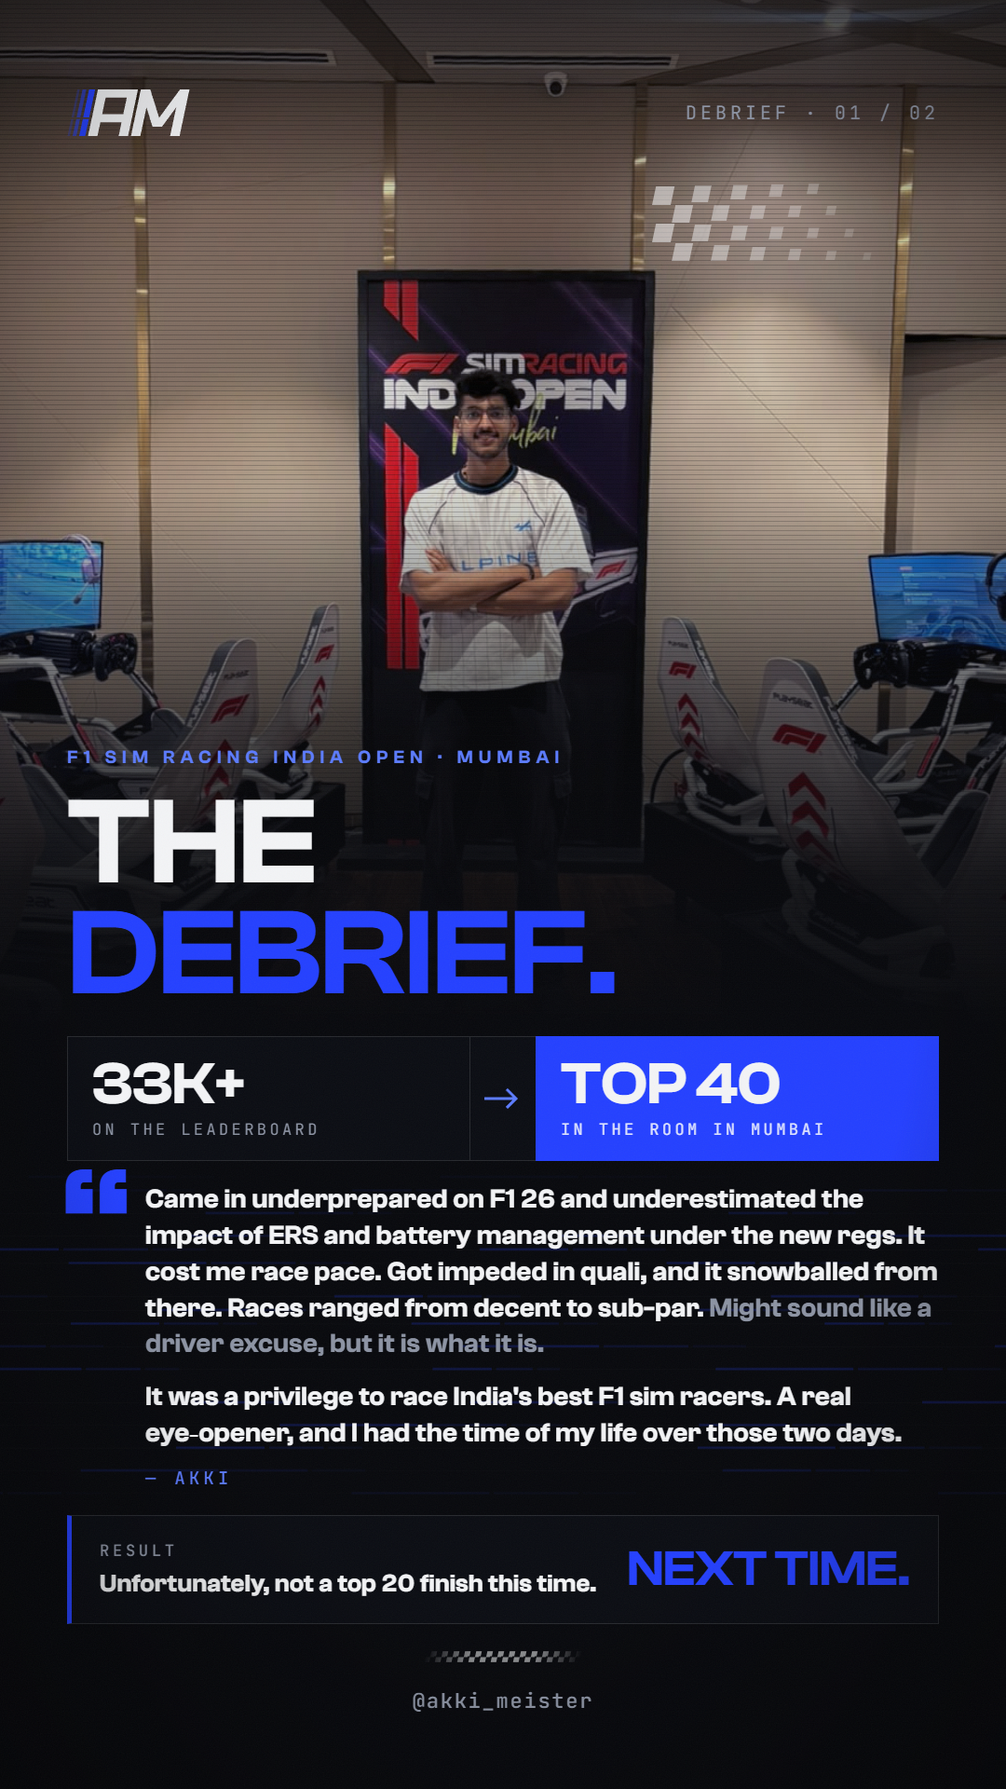
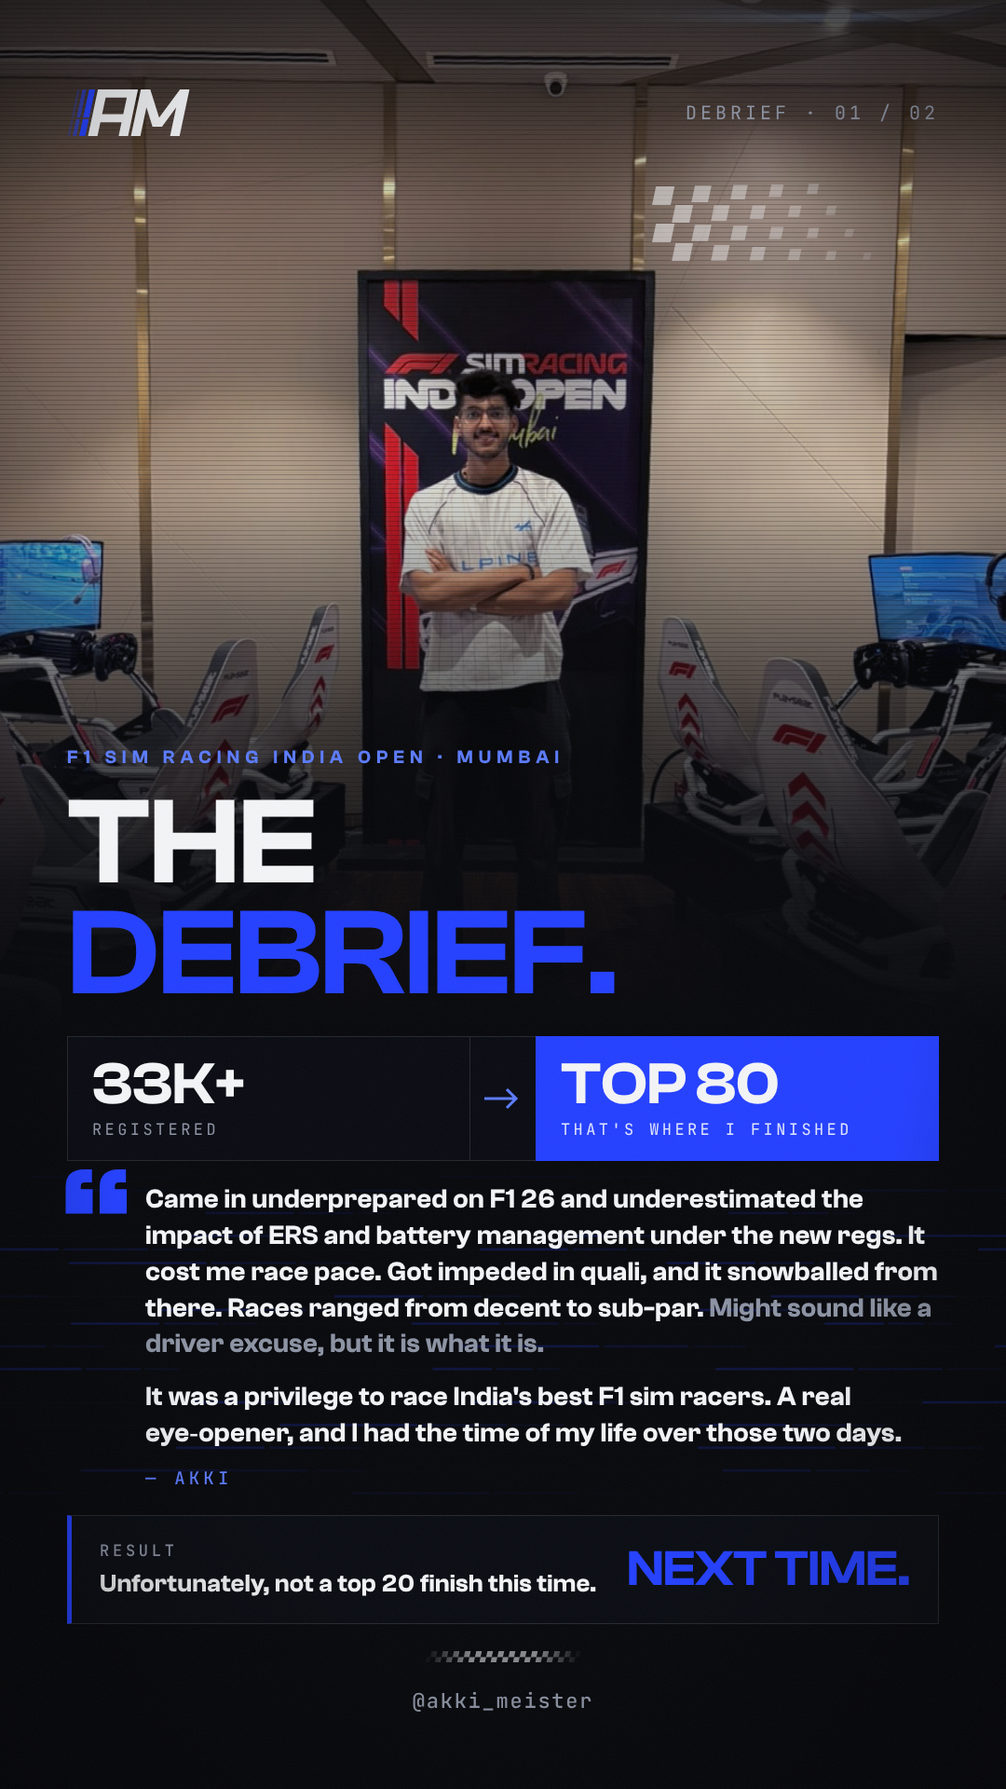
Correct India Open result to top 80 of 33,000+ registered
Akki confirmed the figure: top 80 out of 33,000+ registered
participants. Replace the old "top 40" everywhere (CLAUDE.md, playbook,
research, strategy, roadmap, calendar), drop the 40-vs-80 warnings, and
fix the debrief story stat chips (33K+ REGISTERED -> TOP 80) with a
re-rendered story-01-debrief.png.

Claude-Session: https://claude.ai/code/session_01LczXHi9SgZpyvd83KxSfUF

diff --git a/stories-india-open/stories.html b/stories-india-open/stories.html
@@ -56,10 +56,10 @@ body{background:#222;display:flex;gap:40px;padding:40px;width:max-content}
 
   <!-- funnel stat -->
   <div class="abs" style="left:72px;top:1112px;width:936px;display:flex;align-items:stretch;gap:0;z-index:5">
-    <div class="chip" style="flex:1"><b>33K+</b><span>ON THE LEADERBOARD</span></div>
+    <div class="chip" style="flex:1"><b>33K+</b><span>REGISTERED</span></div>
     <div style="width:70px;display:flex;align-items:center;justify-content:center;background:rgba(10,12,19,.9);border-top:1px solid rgba(243,244,246,.12);border-bottom:1px solid rgba(243,244,246,.12)">
       <svg width="40" height="24" viewBox="0 0 40 24"><path d="M0 12h34M24 2l10 10-10 10" stroke="#5B7BFF" stroke-width="3" fill="none"/></svg></div>
-    <div class="chip" style="flex:1;background:var(--blue);border-color:var(--blue)"><b>TOP 40</b><span style="color:#dfe4ff">IN THE ROOM IN MUMBAI</span></div>
+    <div class="chip" style="flex:1;background:var(--blue);border-color:var(--blue)"><b>TOP 80</b><span style="color:#dfe4ff">THAT'S WHERE I FINISHED</span></div>
   </div>
 
   <!-- the debrief, as a quote -->

diff --git a/research/india-ecosystem.md b/research/india-ecosystem.md
@@ -8,7 +8,7 @@
 
 | Event / org | What it is | Key facts (source) | Relevance to Akki |
 |---|---|---|---|
-| **F1 Sim Racing India Open 2026** (F1 × Mumbai Falcons Racing Ltd) | India's first officially sanctioned national F1 sim championship. F1 describes it as its first country-specific sim programme | Announced 28 Apr 2026; registration via the MFRL app from 30 Apr ([F1.com](https://www.formula1.com/en/latest/article/formula-1-launches-sim-racing-india-open-in-partnership-with-mumbai-falcons.7CgRKSGBmV6v9LnqdE3y9K); [Outlook Respawn](https://respawn.outlookindia.com/gaming/gaming-news/india-gets-first-official-nationwide-f1-sim-racing-championship)). Launch press says **F1 25** on PC, PS5 and Xbox ([Autocar India](https://www.autocarindia.com/auto-features/f1-sim-racing-india-open-format-explained-440832)); **Akki raced the Mumbai qualifiers on F1 26** (first-hand), so later rounds apparently moved to the newer game ⚠ no press report of the switch found. Finals training partner: **Track Titan** (UK AI telemetry-coaching platform), ~300 finalists from 21 cities, aged ~10–61 ([Evo India](https://www.evoindia.com/motorsport/motorsport-news/mumbai-falcons-racing-brings-in-track-titan-to-train-indias-fastest-sim-racers-587832); [myKhel](https://www.mykhel.com/motorsport/mumbai-falcons-racing-partner-with-track-titan-to-train-indias-top-sim-racers-457037.html)); top performers feed MFRL's "Agla Star" programme. Junior and Senior categories; 10 zones; ₹2 crore total prize pool; ₹1 crore per category champion. Finals at **NSCI Dome, Mumbai**, ~5–10 Nov 2026 ([District](https://www.district.in/events/f1-sim-racing-india-open-2026-buy-tickets)), on Playseat Formula Intelligence F1 + Fanatec ClubSport F1 hardware. Entry ₹3,499 / ₹4,999 (Autocar). Delhi time trials at Bharat Mandapam drew 3,000+ in person ([The Bridge](https://thebridge.in/motorsport/f1-sim-racing-massive-turnout-delhi-57179)); also a Kohima round at the Tech X Gaming Expo ([IV Government](https://ivgovernment.com/news/kohima-set-to-host-f1-sim-racing-india-open-bringing-national-esports-competition-to-nagaland)); school time trials in Pune ([myKhel](https://www.mykhel.com/motorsport/f1-sim-racing-time-trials-launch-in-pune-schools-by-mumbai-falcons-racing-014-444689.html)). YouTube streams via District by Zomato ([Adgully](https://www.adgully.com/post/23345/district-by-zomato-partners-with-f1-sim-racing-india-open-2026-youtube-streams-set)) | **Akki's flagship credential.** **"33,000+"** comes from the MFRL app leaderboard (Akki saw it first-hand); no public press total exists. **Screenshot the leaderboard** (total count + Akki's position) and keep it as proof before posting, because sharp-eyed followers will ask. **Game:** Akki raced the Mumbai qualifiers on **F1 26**, so `#f126` in the calendar is right for his content. When quoting the event in general, say "F1 Sim Racing India Open" without a game name, since launch press said F1 25. **The national final is happening this week**, so time content around it. |
+| **F1 Sim Racing India Open 2026** (F1 × Mumbai Falcons Racing Ltd) | India's first officially sanctioned national F1 sim championship. F1 describes it as its first country-specific sim programme | Announced 28 Apr 2026; registration via the MFRL app from 30 Apr ([F1.com](https://www.formula1.com/en/latest/article/formula-1-launches-sim-racing-india-open-in-partnership-with-mumbai-falcons.7CgRKSGBmV6v9LnqdE3y9K); [Outlook Respawn](https://respawn.outlookindia.com/gaming/gaming-news/india-gets-first-official-nationwide-f1-sim-racing-championship)). Launch press says **F1 25** on PC, PS5 and Xbox ([Autocar India](https://www.autocarindia.com/auto-features/f1-sim-racing-india-open-format-explained-440832)); **Akki raced the Mumbai qualifiers on F1 26** (first-hand), so later rounds apparently moved to the newer game ⚠ no press report of the switch found. Finals training partner: **Track Titan** (UK AI telemetry-coaching platform), ~300 finalists from 21 cities, aged ~10–61 ([Evo India](https://www.evoindia.com/motorsport/motorsport-news/mumbai-falcons-racing-brings-in-track-titan-to-train-indias-fastest-sim-racers-587832); [myKhel](https://www.mykhel.com/motorsport/mumbai-falcons-racing-partner-with-track-titan-to-train-indias-top-sim-racers-457037.html)); top performers feed MFRL's "Agla Star" programme. Junior and Senior categories; 10 zones; ₹2 crore total prize pool; ₹1 crore per category champion. Finals at **NSCI Dome, Mumbai**, ~5–10 Nov 2026 ([District](https://www.district.in/events/f1-sim-racing-india-open-2026-buy-tickets)), on Playseat Formula Intelligence F1 + Fanatec ClubSport F1 hardware. Entry ₹3,499 / ₹4,999 (Autocar). Delhi time trials at Bharat Mandapam drew 3,000+ in person ([The Bridge](https://thebridge.in/motorsport/f1-sim-racing-massive-turnout-delhi-57179)); also a Kohima round at the Tech X Gaming Expo ([IV Government](https://ivgovernment.com/news/kohima-set-to-host-f1-sim-racing-india-open-bringing-national-esports-competition-to-nagaland)); school time trials in Pune ([myKhel](https://www.mykhel.com/motorsport/f1-sim-racing-time-trials-launch-in-pune-schools-by-mumbai-falcons-racing-014-444689.html)). YouTube streams via District by Zomato ([Adgully](https://www.adgully.com/post/23345/district-by-zomato-partners-with-f1-sim-racing-india-open-2026-youtube-streams-set)) | **Akki's flagship credential.** **Top 80 out of 33,000+ registered participants** (confirmed by Akki, 4 Nov 2026; seen first-hand in the MFRL app). No public press total exists. **Screenshot the leaderboard** (total count + Akki's position) and keep it as proof before posting, because sharp-eyed followers will ask. **Game:** Akki raced the Mumbai qualifiers on **F1 26**, so `#f126` in the calendar is right for his content. When quoting the event in general, say "F1 Sim Racing India Open" without a game name, since launch press said F1 25. **The national final is happening this week**, so time content around it. |
 | **Indian Sim Racing League (ISRL)** (Mumbai Falcons / IR eSports / VW Motorsport) | Earlier national sim league | S3 won by Amith Kutti ([Evo India](https://www.evoindia.com/motorsport/chennais-amith-kutti-wins-isrl-3-title)); ⚠ 2020–21 sources, current status unknown | Shows the pathway: the ISRL champion got a real-car academy deal |
 | **Indian eRacing Championship** (IR eSports) | Multi-class league (Pro Formula, Junior Formula, Touring, Amateur incl. PS4 and women's) | Organiser claims 4,500 registered drivers ([IR eSports](https://www.iresports.in/our-events/--indian-eracing-championship--)) ⚠ self-reported | Possible collab or coverage partner |
 | **Indian Racing Community (IRC)** | Discord-centred community; F1, ACC and AC leagues | [SimGrid](https://www.thesimgrid.com/communities/indianracingcommunity); [YouTube](https://www.youtube.com/c/indianracingcommunity); ⚠ member count not found | Where the core Indian sim audience gathers |
@@ -45,8 +45,8 @@
 
 | Gap | Evidence | Akki's asset that fills it | Content move |
 |---|---|---|---|
-| **1. No premium, credible Indian sim racing educator** | No Indian sim creator found with verifiable scale; F1 and MFRL used cricketers as ambassadors | Top-40 India Open (⚠ verify wording), sim podiums, coaching | **"The Indian Driver61":** carousel explainers + short reels on technique, with a premium look (already the plan in CLAUDE.md) |
-| **2. No one explains the India Open pathway** | 3,000+ in Delhi alone, school programmes, ₹2 cr prize: lots of new entrants and little guidance | Akki went through it | "How I got top 40 out of [verified N]", "what the zonal qualifier is really like", "rig checklist before your time trial". **Post during finals week (now).** |
+| **1. No premium, credible Indian sim racing educator** | No Indian sim creator found with verifiable scale; F1 and MFRL used cricketers as ambassadors | Top 80 of 33,000+ at the India Open, sim podiums, coaching | **"The Indian Driver61":** carousel explainers + short reels on technique, with a premium look (already the plan in CLAUDE.md) |
+| **2. No one explains the India Open pathway** | 3,000+ in Delhi alone, school programmes, ₹2 cr prize: lots of new entrants and little guidance | Akki went through it | "How I finished top 80 out of 33,000+", "what the zonal qualifier is really like", "rig checklist before your time trial". **Post during finals week (now).** |
 | **3. No India-context hardware guidance** | Prices and availability differ in India (G29 vs G920, Fanatec just arrived, confusion over who the official Moza dealer is) | Rig knowledge, VRH relationship | "Best rig at ₹40k / ₹1L / ₹3L in India", sourced only from Indian retailers. Disclose any affiliations |
 | **4. Telemetry and data in plain English, for Indian sim racers** | Global creators do this (Coach Dave Delta, Driver61); no Indian equivalent found. **MFRL had to bring in a UK platform (Track Titan) to coach India Open finalists on telemetry** | Telemetry skills, FS engineering | "Read your own telemetry" series; before/after traces from Akki's laps |
 | **5. Sim → real pathway in India** | Only one documented case (Amith Kutti → NK Racing Academy, 2020–21); Akki has done karting + FS | Karting, Formula Student | Documentary-style series: sim → kart → FS car. That's the Broadbent/Super GT arc, Indian edition |
@@ -62,7 +62,7 @@ Why it works for the goals: **expos** want credible hosts; **F1 / teams** (MFRL,
 
 ### Answered by Akki (4 Nov 2026)
 
-1. **33,000+**: from the MFRL app leaderboard. Action: keep a screenshot as proof.
+1. **Top 80 out of 33,000+ registered participants** (MFRL app). Action: keep a screenshot as proof.
 2. **Game**: F1 26 in the Mumbai qualifiers.
 3. **Adi Plays**: [@adiplays_](https://www.instagram.com/adiplays_/) (Aditya Dube). Profiled in `creator-landscape.md`.
 4. **VRH**: the Noida venue where Akki raced. Profiled above (⚠ check whether it's the Greater Noida partner arena or VRH's own site).

diff --git a/strategy/STRATEGY.md b/strategy/STRATEGY.md
@@ -3,9 +3,8 @@
 *Written 4 Nov 2026. Built on `research/creator-landscape.md` and `research/india-ecosystem.md`. Pair it with `strategy/ROADMAP.md` (the checklist) and `CONTENT-CALENDAR.md` (the next 4 weeks).*
 
 > **⚠ Settle these before anything goes public**
-> 1. **Top 40 or top 80?** In this session you said "top 80 of 33k+". `CLAUDE.md`, the research and the old calendar all say "top 40". This strategy uses **top 80** because it's your latest statement. Screenshot the MFRL app leaderboard (your position and the total entries), then fix whichever files are wrong. Your whole positioning rests on credibility, and the audience *will* check.
-> 2. **Kids in coaching photos.** `library/sim-coaching/` includes minors. Get written parental consent before any child's face appears in a post. Otherwise use shots where they aren't identifiable, or blur them.
-> 3. **"33,000+"** comes from the leaderboard, not a press figure. Keep the screenshot (see the research).
+> 1. **Kids in coaching photos.** `library/sim-coaching/` includes minors. Get written parental consent before any child's face appears in a post. Otherwise use shots where they aren't identifiable, or blur them.
+> 2. **The India Open figure is top 80 out of 33,000+ registered participants** (confirmed by Akki, 4 Nov 2026). It comes from the MFRL app, not a press release, so keep a screenshot of the leaderboard as proof. Your whole positioning rests on credibility, and the audience *will* check.
 
 ---
 
@@ -145,7 +144,7 @@ There's a **minimum viable week** for exam weeks (see below), and missing a week
 | **Twitch / live** | Later: Hotlap Challenge finals, charity or endurance stream | Optional from month 9+. One "event" stream per quarter, not a schedule. | 9+ months |
 
 ### First long-form YouTube video: candidate titles
-1. "How I finished top 80 of 33,000 at the F1 Sim Racing India Open (and what I'd change)" ⚠ confirm the number first.
+1. "How I finished top 80 of 33,000+ at the F1 Sim Racing India Open (and what I'd change)"
 2. "I reviewed 5 of your laps. Here's the mistake all of you make" (a Debrief compilation).
 3. "Sim racing in India: the complete beginner's guide (₹30k to ₹3 lakh)" 🔎 prices at the time of posting.
 
@@ -276,7 +275,7 @@ Track these in a simple sheet. Month 1 sets the **baseline**, and "working" mean
    - Every 🔎 gets checked with sources.
    - Personal values are labelled "my setup".
    - Corrections go in a pinned comment or story, not deleted.
-2. **Overstating results.** Settle top 40 vs top 80 now. Never round up. Keep screenshots of every result.
+2. **Overstating results.** Always say exactly "top 80 of 33,000+ registered". Never round up. Keep screenshots of every result.
 3. **Burnout and inconsistency.** The research pattern is that creators who last 6+ months win. Use the minimum viable week, batch production (Session 5), and templates. Don't add platforms ahead of the plan.
 4. **Copying.** Learn the *mechanics*, not the look:
    - Broadbent: the annual event.
@@ -304,7 +303,7 @@ Track these in a simple sheet. Month 1 sets the **baseline**, and "working" mean
 
 | # | Idea (hook) | Format | Pillar | Series | Media to use / what to film |
 |---|---|---|---|---|---|
-| 1 | **"33,000+ on the leaderboard. Here's what top 80 actually took."** | Reel 30–45 s | P4 | — | Render `email-motion/email-zoom.html` → mp4 first; `stories-india-open/assets/venue.jpg`, `room.jpg`, `cockpit.jpg`; talking-head hook from `sim-rig/sim-intro.mp4` (check frames). ⚠ top 40/80 |
+| 1 | **"33,000+ registered. Here's what top 80 actually took."** | Reel 30–45 s | P4 | — | Render `email-motion/email-zoom.html` → mp4 first; `stories-india-open/assets/venue.jpg`, `room.jpg`, `cockpit.jpg`; talking-head hook from `sim-rig/sim-intro.mp4` (check frames) |
 | 2 | **"The ERS mistake that killed my race pace in F1 26"** | Carousel 7 | P2 | APX | Hero `telemetry/img-9320.jpg`; battery deploy/harvest diagram from the kit. 🔎 2026 regs + F1 26 ERS modes |
 | 3 | **Debrief Ep 0: "I debriefed my own lap. 0.Xs in two corners."** | Reel 75 s | P2 | DEB | 📊 Akki's lap + reference export; b-roll `sim-rig/img-8214.mp4` (wheel close-up), `telemetry/img-4366.jpg` |
 | 4 | **"You're braking in a straight line. That's why you're slow."** (trail braking) | Carousel 7 | P1 | APX | Hero `sim-coaching/dsc00978.jpg` (strong); brake-pressure graph. 🔎 |

diff --git a/CONTENT-CALENDAR.md b/CONTENT-CALENDAR.md
@@ -4,7 +4,9 @@
 
 **Positioning:** *India's own sim racing coach. Real laps, real data, real racecraft. Every post makes you faster.*
 
-> ⚠ **Before week 1:** settle **top 40 vs top 80** with the leaderboard screenshot (see `strategy/ROADMAP.md`). The posts below say top 80, per Akki's latest statement. Get parental consent before any coached child's face is used.
+> **India Open figure:** top 80 out of 33,000+ registered participants. Use exactly that wording, and keep the leaderboard screenshot as proof.
+>
+> ⚠ **Before week 1:** get parental consent before any coached child's face is used.
 
 ## The weekly rhythm
 
@@ -68,7 +70,7 @@ India Open finals week (NSCI Dome, Mumbai), so the scene is paying attention.
   > The India Open taught me the hard way: in F1 26, battery management *is* race pace. 🔋 Here's what went wrong and what I'm changing. Save this before your next race.
 - **Tags:** Core + Racecraft + Data
 
-### Fri 13 · REEL · "33,000+ on the leaderboard. Here's what top 80 took." ⚠ 🎥 · *P4*
+### Fri 13 · REEL · "33,000+ registered. Here's what top 80 took." 🎥 · *P4*
 - **Structure:**
   1. The email-zoom clip: "Congratulations on qualifying…".
   2. Venue photos.
@@ -79,8 +81,8 @@ India Open finals week (NSCI Dome, Mumbai), so the scene is paying attention.
   - `stories-india-open/assets/venue.jpg`, `room.jpg`, `cockpit.jpg`.
   - Any clips Akki has from Mumbai.
 - **Caption:**
-  > 33,000+ on the leaderboard. Top 80. Not where I wanted to finish, but I learned more in those days than in a year of hotlapping. Coming back stronger. 🏁 @akki_meister
-- ⚠ Confirm the number. Add a congratulations line for the 2026 champions once the finals results are out.
+  > 33,000+ registered. I finished top 80. Not where I wanted to finish, but I learned more in those days than in a year of hotlapping. Coming back stronger. 🏁 @akki_meister
+- Add a congratulations line for the 2026 champions once the finals results are out.
 - **Tags:** Core + India and lifestyle
 
 ### Sat 14 · REEL · THE DEBRIEF, Ep 0: "I debriefed my own lap" 📊 🎥 · *P2 · the show begins*
@@ -262,7 +264,7 @@ The full list of 30 ideas is in `strategy/STRATEGY.md` §8.
 
 | For | What |
 |---|---|
-| Before week 1 | ⚠ Leaderboard screenshot (top 40 vs 80); consent list for coached kids; any Mumbai clips or photos |
+| Before week 1 | Leaderboard screenshot (top 80 of 33,000+, as proof); consent list for coached kids; any Mumbai clips or photos |
 | Week 1 | 📊 Your lap + a faster reference lap export (Debrief Ep 0); 📸 wheel and pedal close-ups |
 | Week 2 | 🎥 Onboard hotlap with input overlay (+ pedal-cam if possible); 📊 a coached driver's lap (with permission) |
 | Week 3 | 🎥 Kart footage with timing if you have it; 📊 the Ep 1 driver's re-run lap |

diff --git a/research/creator-landscape.md b/research/creator-landscape.md
@@ -84,7 +84,7 @@ Web search barely indexes Instagram follower counts or Reels. Before finalising 
 
 ## 3. Takeaways for AKKI MEISTER
 
-- **The global winners' formula** is a clear lane + a recurring format + real credibility (they can actually drive) + a sim → real storyline. Akki already has three of the four: **credibility** (top 40 at the India Open per Akki ⚠ self-reported, sim podiums), the **sim → real storyline** (karting, Formula Student), and the **education lane** (coaching, telemetry). The missing piece is the **recurring franchise format**.
+- **The global winners' formula** is a clear lane + a recurring format + real credibility (they can actually drive) + a sim → real storyline. Akki already has three of the four: **credibility** (top 80 of 33,000+ registered at the India Open, confirmed by Akki; keep the leaderboard screenshot as proof; sim podiums), the **sim → real storyline** (karting, Formula Student), and the **education lane** (coaching, telemetry). The missing piece is the **recurring franchise format**.
 - **The closest global analogue to Akki is Driver61 + Jardier**: teaching-first, fast enough to be credible, with a community league. Not Super GT (game variety) and not Boosted Media (hardware reviews; that's capital-intensive).
 - **Proof that India's F1 teams want local creators:** Adi Plays (~63K, F1 fan and lifestyle) got Alpine F1 guest access in Singapore because of his reach into India. Paddock invites go to Indian creators with an engaged audience, even at mid-size. Adi covers **fandom**; nobody covers **driving and data** at that level. A collab ("F1 fan vs sim racer: who's faster?") fits both channels.
 - **In India the seat is empty.** F1 and Mumbai Falcons hired cricketers as ambassadors because no sim-native creator had the reach or polish. Fanatec's India partner says it plans to work with gaming creators and streamers ([Tribune](https://www.tribuneindia.com/news/business/fanatec-enters-india-market-through-strategic-partnership-with-vishal-peripherals/)). The premium, credible, English-plus-Indian-context sim racing educator is unclaimed.

diff --git a/CLOUD-PLAYBOOK.md b/CLOUD-PLAYBOOK.md
@@ -48,7 +48,7 @@ Read CLAUDE.md (especially "The mission"), research/creator-landscape.md, resear
 
 My end goal (repeat it back in one paragraph before you start, so I know you've got it): become a popular, valuable sim racing / motorsport / lifestyle creator who gets invited to sim expos, earns F1 paddock access and team invitations, lands partnerships and ambassador roles through content, and delivers real knowledge — built the way Jimmy Broadbent, Super GT, Jardier and Adi Plays built theirs, but in my own lane.
 
-My real assets: competed at F1 Sim Racing India Open 2026 (top 40 of 33k+), sim racing podiums, karting, Formula Student (engineering + driving), I coach sim racing (incl. kids), I understand data/telemetry, I have a finished brand (AKKI MEISTER).
+My real assets: competed at F1 Sim Racing India Open 2026 (top 80 of 33k+ registered), sim racing podiums, karting, Formula Student (engineering + driving), I coach sim racing (incl. kids), I understand data/telemetry, I have a finished brand (AKKI MEISTER).
 
 Build my strategy:
 1. Positioning: one-line "why follow me" that no one else in India owns (e.g. the sim-to-real engineer-driver who teaches). Give 3 options, recommend one.

diff --git a/strategy/ROADMAP.md b/strategy/ROADMAP.md
@@ -8,7 +8,7 @@ Tick items off as you go (`- [x]`). The reasoning behind each item is in `strate
 
 ## This week (4–10 Nov 2026): before anything goes public
 
-- [ ] 🛠 **Settle top 40 vs top 80.** Screenshot the MFRL app leaderboard (your position + total entries). Fix `CLAUDE.md`, `research/*.md` and the calendar to match.
+- [ ] 🛠 **Screenshot the MFRL app leaderboard** showing top 80 of 33,000+ registered (your position + the total). Keep it in the receipts folder as proof.
 - [ ] 🛠 Write down your baseline (today's numbers):
   - IG followers: ____
   - YT subs: ____

diff --git a/CLAUDE.md b/CLAUDE.md
@@ -78,7 +78,7 @@ Akki wants to become a **popular, genuinely valuable sim racing, motorsport and 
 Learn from what made them grow; never copy them.
 
 **Akki's credibility:**
-- Competed at the F1 Sim Racing India Open 2026 (top 40 from 33,000+ on the leaderboard).
+- Competed at the F1 Sim Racing India Open 2026 (top 80 out of 33,000+ registered participants).
 - Sim racing podiums.
 - Karting.
 - Formula Student (engineering and driving).
